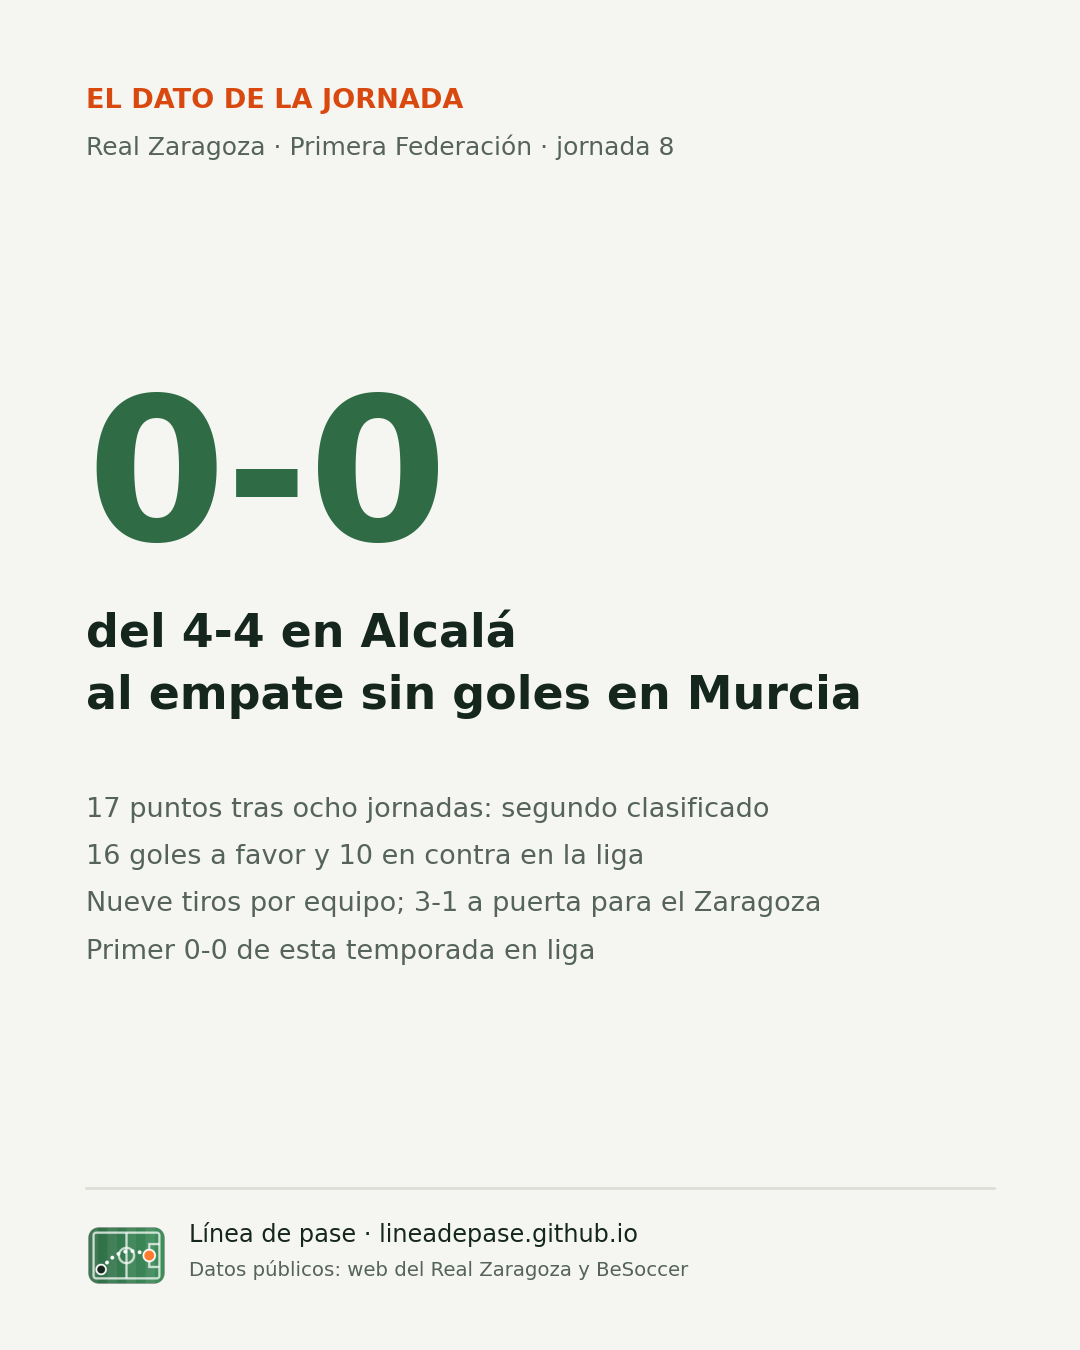
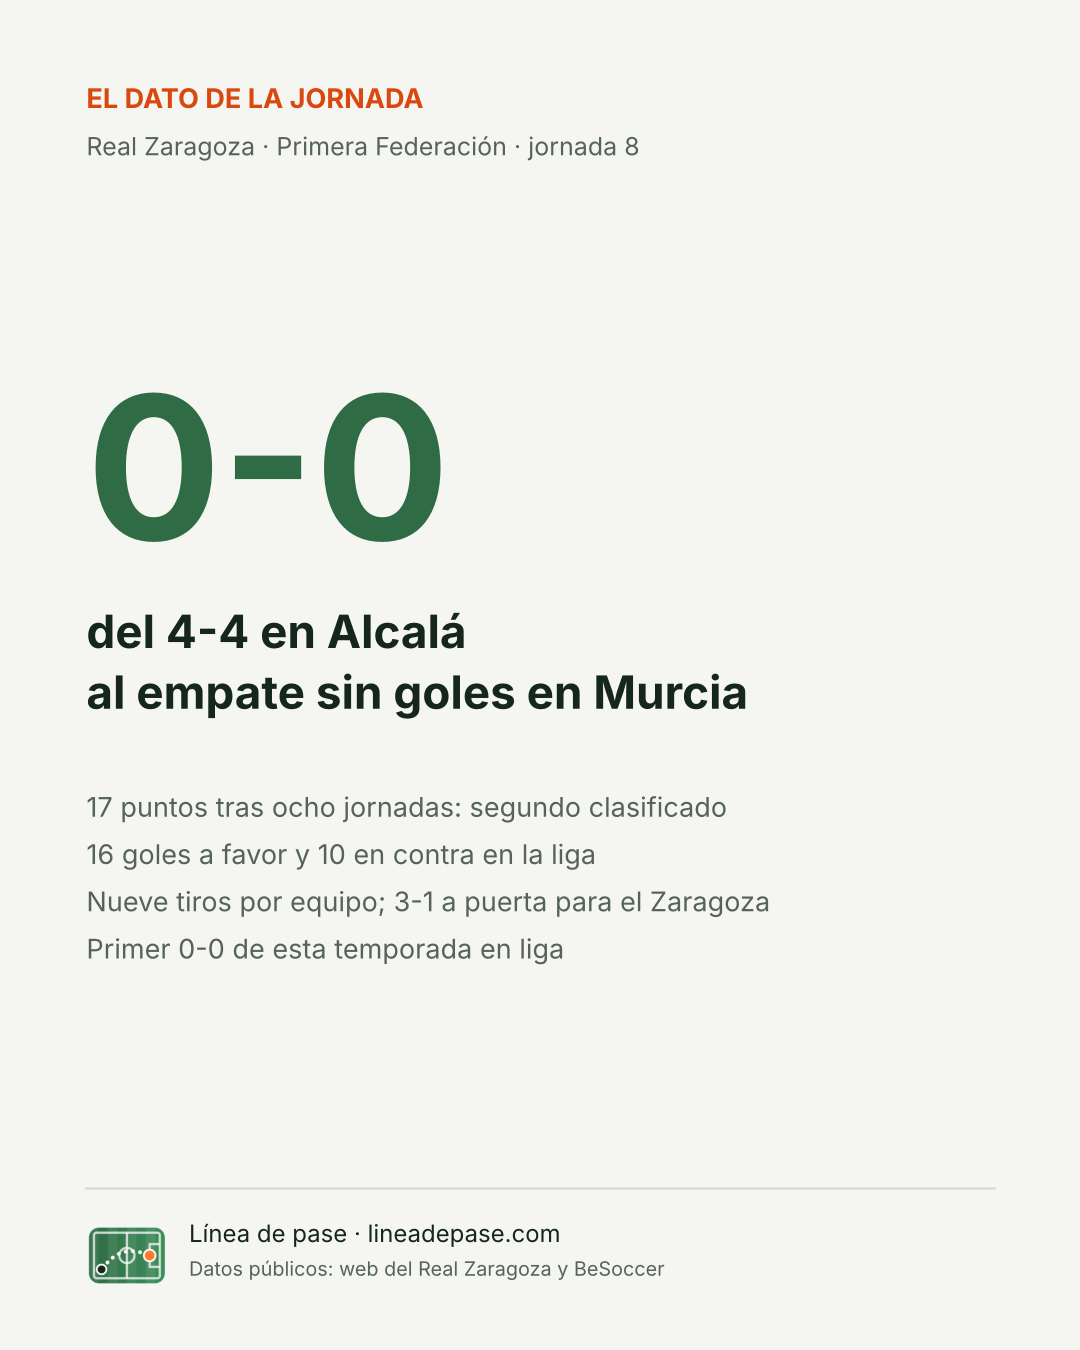
Dominio lineadepase.com en textos e imágenes, xG en el catálogo y dato de la J8

diff --git a/proyectos/index.html b/proyectos/index.html
@@ -8,7 +8,7 @@
 <meta charset="utf-8">
 <meta name="viewport" content="width=device-width, initial-scale=1, viewport-fit=cover">
 <title>Proyectos de análisis de datos de fútbol · Línea de pase</title>
-<meta name="description" content="Explora análisis del Real Zaragoza 2026/27, fútbol femenino en España y goles esperados (xG): gráficos interactivos, metodología y datos abiertos.">
+<meta name="description" content="Explora análisis del Real Zaragoza 2026/27, investigaciones de fútbol femenino con modelos propios como el xT y explicaciones de goles esperados (xG): gráficos, metodología y datos abiertos.">
 <link rel="preconnect" href="https://fonts.googleapis.com">
 <link rel="preconnect" href="https://fonts.gstatic.com" crossorigin>
 <link rel="stylesheet" href="https://fonts.googleapis.com/css2?family=Archivo:wght@400;500;600;700&family=Big+Shoulders+Display:wght@700;800&display=swap">
@@ -25,7 +25,7 @@
 <meta property="og:locale" content="es_ES">
 <meta property="og:site_name" content="Línea de pase">
 <meta property="og:title" content="Proyectos de análisis de datos de fútbol · Línea de pase">
-<meta property="og:description" content="Explora análisis del Real Zaragoza 2026/27, fútbol femenino en España y goles esperados (xG): gráficos interactivos, metodología y datos abiertos.">
+<meta property="og:description" content="Explora análisis del Real Zaragoza 2026/27, investigaciones de fútbol femenino con modelos propios como el xT y explicaciones de goles esperados (xG): gráficos, metodología y datos abiertos.">
 <meta property="og:url" content="https://lineadepase.com/proyectos/index.html">
 <meta property="og:image" content="https://lineadepase.com/assets/compartir/proyectos-index.png">
 <meta property="og:image:type" content="image/png">
@@ -34,7 +34,7 @@
 <meta property="og:image:alt" content="Proyectos de análisis de datos de fútbol · Línea de pase">
 <meta name="twitter:card" content="summary_large_image">
 <meta name="twitter:title" content="Proyectos de análisis de datos de fútbol · Línea de pase">
-<meta name="twitter:description" content="Explora análisis del Real Zaragoza 2026/27, fútbol femenino en España y goles esperados (xG): gráficos interactivos, metodología y datos abiertos.">
+<meta name="twitter:description" content="Explora análisis del Real Zaragoza 2026/27, investigaciones de fútbol femenino con modelos propios como el xT y explicaciones de goles esperados (xG): gráficos, metodología y datos abiertos.">
 <meta name="twitter:image" content="https://lineadepase.com/assets/compartir/proyectos-index.png">
 <meta name="twitter:image:alt" content="Proyectos de análisis de datos de fútbol · Línea de pase">
 <script type="application/ld+json">{"@context": "https://schema.org", "@graph": [{"@type": "BreadcrumbList", "itemListElement": [{"@type": "ListItem", "position": 1, "name": "Inicio", "item": "https://lineadepase.com/"}, {"@type": "ListItem", "position": 2, "name": "Proyectos de análisis de datos de fútbol", "item": "https://lineadepase.com/proyectos/index.html"}]}]}</script>
@@ -60,10 +60,11 @@
   <section class="catalogo" aria-label="Catálogo de proyectos">
     <div class="envoltorio">
       <div class="filtros" role="group" aria-label="Filtrar por tipo de proyecto" hidden>
-        <button type="button" data-filtro="todos" aria-pressed="true">Todos <span>3</span></button>
+        <button type="button" data-filtro="todos" aria-pressed="true">Todos <span>4</span></button>
         <button type="button" data-filtro="temporada" aria-pressed="false">Seguimiento de temporada <span>1</span></button>
         <button type="button" data-filtro="master" aria-pressed="false">Trabajos del máster <span>1</span></button>
         <button type="button" data-filtro="investigacion" aria-pressed="false">Investigaciones <span>1</span></button>
+        <button type="button" data-filtro="divulgacion" aria-pressed="false">Divulgación <span>1</span></button>
       </div>
       <ul class="tarjetas-proyecto" id="catalogo">
         <li data-tipo="investigacion">
@@ -121,6 +122,23 @@
               <p>Licencias federativas y población por comunidad para elegir dónde tendría más sentido un programa de iniciación.</p>
               <dl class="ficha-proyecto"><dt>Pregunta</dt><dd>¿Dónde empezar un programa de iniciación?</dd><dt>Método</dt><dd>Licencias del CSD y población del INE; tasas y criterios de selección explícitos.</dd><dt>Resultado</dt><dd>Andalucía y Comunitat Valenciana como propuesta inicial, pendiente de contrastar la demanda.</dd><dt>Aportación</dt><dd>Análisis publicado con mapa, tablas, código y límites del estudio.</dd></dl>
               <span class="ver">Leer el análisis</span>
+            </div>
+          </a>
+        </li>
+        <li data-tipo="divulgacion">
+          <a class="tarjeta-proyecto" href="xg/index.html">
+            <div class="mini-marco">
+              <div class="mini mini-imagen">
+              <img src="../assets/xg-portada.jpg" alt="" width="910" height="512" loading="lazy">
+            </div>
+              <span class="tipo-proyecto">Divulgación</span>
+            </div>
+            <div class="tarjeta-texto">
+              <p class="tipo-texto">Divulgación</p>
+              <p class="etiqueta">Vídeo subtitulado · Goles esperados (xG)</p>
+              <h2>xG, sin líos</h2>
+              <p>¿Puedes crear más peligro y aun así perder? Una explicación visual de qué mide el xG y cómo interpretarlo.</p>
+              <span class="ver">Ver la explicación</span>
             </div>
           </a>
         </li>

diff --git a/analisis/comun/pagina.py b/analisis/comun/pagina.py
@@ -95,7 +95,7 @@ def escribir_pagina_zaragoza(archivo, titulo, descripcion, migas, cuerpo, fuente
                     f'<meta name="description" content="{descripcion}">', cabeza)
     cabeza += (f'<meta property="og:title" content="{titulo}">\n'
                f'<meta property="og:description" content="{descripcion}">\n'
-               f'<meta property="og:image" content="https://lineadepase.github.io/proyectos/real-zaragoza/graficos/simulacion/compartir.png">\n'
+               f'<meta property="og:image" content="https://lineadepase.com/proyectos/real-zaragoza/graficos/simulacion/compartir.png">\n'
                '<link rel="stylesheet" href="../../assets/investigacion.css?v=20261021fotos">\n'
                '<link rel="stylesheet" href="../../assets/fotografia-editorial.css?v=20261021b">\n')
     menu = re.search(r'<header class="cabecera">.*?</header>', plantilla, re.S).group(0)

diff --git a/analisis/real-zaragoza/codigo/tarjeta_dato.py b/analisis/real-zaragoza/codigo/tarjeta_dato.py
@@ -52,7 +52,7 @@ def dibujar(dato, ruta):
     eje_logo = fig.add_axes([0.08, 0.042, 0.075, 0.056])
     eje_logo.imshow(plt.imread(LOGO))
     eje_logo.axis("off")
-    fig.text(0.175, 0.08, "Línea de pase · lineadepase.github.io", fontsize=11.5, color=TINTA)
+    fig.text(0.175, 0.08, "Línea de pase · lineadepase.com", fontsize=11.5, color=TINTA)
     fig.text(0.175, 0.055, dato["fuentes"], fontsize=9.5, color=TINTA_SUAVE)
 
     fig.savefig(ruta, dpi=150, facecolor=PAPEL)

diff --git a/analisis/comun/estilo.py b/analisis/comun/estilo.py
@@ -346,7 +346,7 @@ def portada(titulo, entradilla="", cifra="", cifra_texto="", etiqueta="", paleta
     return fig
 
 
-def cierre(titulo, puntos, enlace="lineadepase.github.io", paleta="web"):
+def cierre(titulo, puntos, enlace="lineadepase.com", paleta="web"):
     """Última diapositiva: límites del estudio y dónde leerlo completo."""
     c = preparar(paleta)
     fig = plt.figure(figsize=(10.8, 13.5), dpi=100, facecolor=c["papel"])

diff --git a/analisis/real-zaragoza/PROMPT_ACTUALIZACION.md b/analisis/real-zaragoza/PROMPT_ACTUALIZACION.md
@@ -1,6 +1,6 @@
 # Actualización del Real Zaragoza y análisis de vídeo pendiente
 
-Trabajas sobre el repositorio GitHub `lineadepase/lineadepase.github.io`, mi web «Línea de pase»: https://lineadepase.github.io/.
+Trabajas sobre el repositorio GitHub `lineadepase/lineadepase.github.io`, mi web «Línea de pase»: https://lineadepase.com/.
 
 No uses conectores salvo Google Sheets para el apartado Tableau. No envíes correos, no hagas pagos ni modifiques otros servicios. Se autorizan las herramientas de acceso al repositorio, lectura web, notificación al usuario y entrega de archivos indicadas abajo. No publiques el dato de la jornada ni el texto para LinkedIn.
 
@@ -109,7 +109,7 @@ Si falla la subida, genera `git format-patch origin/main -o <carpeta temporal>`,
 
 ## 9. Verificación pública solo tras subir
 
-Espera dos minutos, sin bloquear la comunicación más de un minuto seguido. Abre https://lineadepase.github.io/proyectos/real-zaragoza/, verifica nueva jornada y marcador. Abre ultimo-partido.html y grupo-2.html; deben mostrar el partido y corte realmente incorporados. Si el grupo no pudo actualizarse, no debe atribuirse un corte nuevo. Comprueba también el enlace al análisis visual si se añadió. No afirmes que se ve actualizado sin haberlo comprobado.
+Espera dos minutos, sin bloquear la comunicación más de un minuto seguido. Abre https://lineadepase.com/proyectos/real-zaragoza/, verifica nueva jornada y marcador. Abre ultimo-partido.html y grupo-2.html; deben mostrar el partido y corte realmente incorporados. Si el grupo no pudo actualizarse, no debe atribuirse un corte nuevo. Comprueba también el enlace al análisis visual si se añadió. No afirmes que se ve actualizado sin haberlo comprobado.
 
 ## 10. Entrega
 

diff --git a/contenidos/VIDEOS.md b/contenidos/VIDEOS.md
@@ -4,7 +4,7 @@ Marca: **Línea de pase**. Nombre público y firma del autor: **Ángel Marqueta 
 
 Usar este nombre en títulos de autor, guiones, locución, tarjetas de cierre, subtítulos, miniaturas, créditos y metadatos. Los datos comunes están en `identidad.json`.
 
-El cierre incluye la web https://lineadepase.github.io/ y el perfil de LinkedIn. Mantener los créditos de las fuentes, música y sus licencias.
+El cierre incluye la web https://lineadepase.com/ y el perfil de LinkedIn. Mantener los créditos de las fuentes, música y sus licencias.
 
 Preparar versión horizontal para la web y LinkedIn, y vertical para reels. Comprobar el cierre completo antes de publicar.
 

diff --git a/analisis/liga-f-xt/README.md b/analisis/liga-f-xt/README.md
@@ -1,6 +1,6 @@
 # Liga F 2023/24: crear peligro antes del tiro
 
-Investigación sobre quién acerca el balón a las zonas de gol con pases y conducciones, medido con un modelo propio de amenaza esperada (xT). El resultado se publica en [Línea de pase](https://lineadepase.github.io/proyectos/liga-f-xt/).
+Investigación sobre quién acerca el balón a las zonas de gol con pases y conducciones, medido con un modelo propio de amenaza esperada (xT). El resultado se publica en [Línea de pase](https://lineadepase.com/proyectos/liga-f-xt/).
 
 Es un análisis histórico: la temporada 2023/24 terminó en 2024 y no describe la forma actual de ninguna jugadora.
 

diff --git a/analisis/real-zaragoza/README.md b/analisis/real-zaragoza/README.md
@@ -1,6 +1,6 @@
 # Real Zaragoza 2026/27: seguimiento con datos públicos
 
-Código y datos del seguimiento del Real Zaragoza en Primera Federación (grupo 2). El resultado se publica en [Línea de pase](https://lineadepase.github.io/proyectos/real-zaragoza/).
+Código y datos del seguimiento del Real Zaragoza en Primera Federación (grupo 2). El resultado se publica en [Línea de pase](https://lineadepase.com/proyectos/real-zaragoza/).
 
 ## Cómo está organizado
 

diff --git a/analisis/futbol-femenino/README.md b/analisis/futbol-femenino/README.md
@@ -1,6 +1,6 @@
 # Fútbol femenino: ¿dónde empezar un programa de iniciación?
 
-Actividad colaborativa del módulo 1 del Máster en Big Data Deportivo. El resultado está en [Línea de pase](https://lineadepase.github.io/proyectos/futbol-femenino/).
+Actividad colaborativa del módulo 1 del Máster en Big Data Deportivo. El resultado está en [Línea de pase](https://lineadepase.com/proyectos/futbol-femenino/).
 
 ## La pregunta
 

diff --git a/analisis/real-zaragoza/seguimiento/jornada-8.md b/analisis/real-zaragoza/seguimiento/jornada-8.md
@@ -38,7 +38,7 @@ El Real Zaragoza suma 17 puntos en ocho partidos y queda segundo, empatado con e
 
 Estoy preparando la actualización de Línea de pase. El xG y el análisis del vídeo siguen pendientes de revisión.
 
-https://lineadepase.github.io/
+https://lineadepase.com/
 
 #LíneaDePase #AnálisisDeDatos #RealZaragoza
 
